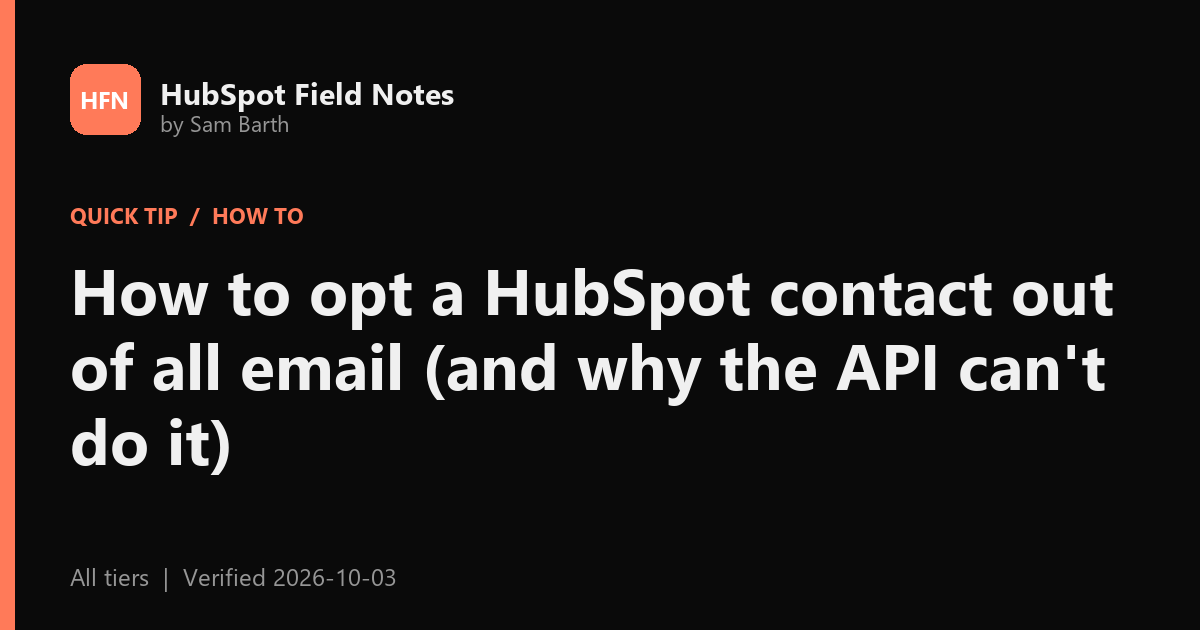
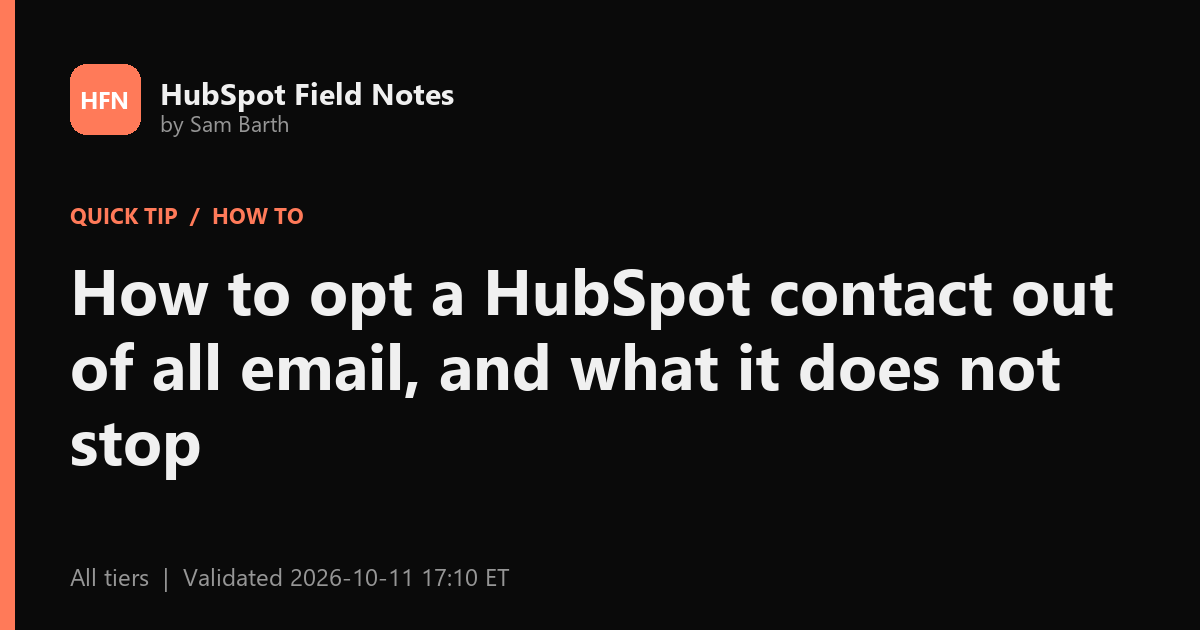
Rewrite bulk-assign-owners-from-sheet and opt-out-contact-all-email from KB, add Validated stamps

Changed region(s): [[0.3392, 0.5429, 0.925, 0.6635], [0.0617, 0.6635, 0.2158, 0.754], [0.1542, 0.9048, 0.4317, 0.9349]]

diff --git a/articles/opt-out-contact-all-email/index.html b/articles/opt-out-contact-all-email/index.html
@@ -13,13 +13,13 @@
 <script>try{var t=localStorage.getItem('hfn-theme');if(t)document.documentElement.setAttribute('data-theme',t)}catch(e){}</script>
 <script id="hs-script-loader" async defer src="https://js.hs-scripts.com/20693956.js"></script>
 <!--/head-->
-<title>How to opt a HubSpot contact out of all email (and why the API can't do it) - HubSpot Field Notes</title>
-<meta name="description" content="Actions, Opt out of email stops future marketing and one-to-one email from HubSpot. Where it lives, what it does not stop, and why scripts and the API cannot set it.">
+<title>How to opt a HubSpot contact out of all email, and what it does not stop - HubSpot Field Notes</title>
+<meta name="description" content="Actions, Opt out of email stops future marketing and one-to-one email from HubSpot. Where it lives, what it does not stop, and how to opt out a group with a spreadsheet.">
 <link rel="canonical" href="https://hubspot.samcbarth.com/articles/opt-out-contact-all-email/">
 <meta property="og:type" content="article">
 <meta property="og:url" content="https://hubspot.samcbarth.com/articles/opt-out-contact-all-email/">
-<meta property="og:title" content="How to opt a HubSpot contact out of all email (and why the API can't do it)">
-<meta property="og:description" content="Actions, Opt out of email stops future marketing and one-to-one email from HubSpot. Where it lives, what it does not stop, and why scripts and the API cannot set it.">
+<meta property="og:title" content="How to opt a HubSpot contact out of all email, and what it does not stop">
+<meta property="og:description" content="Actions, Opt out of email stops future marketing and one-to-one email from HubSpot. Where it lives, what it does not stop, and how to opt out a group with a spreadsheet.">
 <meta property="og:image" content="https://hubspot.samcbarth.com/articles/opt-out-contact-all-email/og.png">
 <meta property="article:published_time" content="2026-10-03">
 <meta property="article:modified_time" content="2026-10-03">
@@ -30,8 +30,8 @@
   "@graph": [
     {
       "@type": "TechArticle",
-      "headline": "How to opt a HubSpot contact out of all email (and why the API can't do it)",
-      "description": "Actions, Opt out of email stops future marketing and one-to-one email from HubSpot. Where it lives, what it does not stop, and why scripts and the API cannot set it.",
+      "headline": "How to opt a HubSpot contact out of all email, and what it does not stop",
+      "description": "Actions, Opt out of email stops future marketing and one-to-one email from HubSpot. Where it lives, what it does not stop, and how to opt out a group with a spreadsheet.",
       "datePublished": "2026-10-03",
       "dateModified": "2026-10-03",
       "author": { "@type": "Person", "name": "Sam Barth", "url": "https://samcbarth.com" },
@@ -56,7 +56,7 @@
       "@type": "BreadcrumbList",
       "itemListElement": [
         { "@type": "ListItem", "position": 1, "name": "HubSpot Field Notes", "item": "https://hubspot.samcbarth.com/" },
-        { "@type": "ListItem", "position": 2, "name": "How to opt a HubSpot contact out of all email (and why the API can't do it)", "item": "https://hubspot.samcbarth.com/articles/opt-out-contact-all-email/" }
+        { "@type": "ListItem", "position": 2, "name": "How to opt a HubSpot contact out of all email, and what it does not stop", "item": "https://hubspot.samcbarth.com/articles/opt-out-contact-all-email/" }
       ]
     }
   ]
@@ -87,13 +87,13 @@
     <nav class="crumbs" aria-label="Breadcrumb"><a href="../../">All articles</a> / <a href="../../?feature=Contacts">Contacts</a></nav>
     <header class="article-head">
       <div class="badges"><span class="badge badge-type">Quick tip</span><span class="badge badge-problem">How to</span><span class="badge">Marketing Hub</span><span class="badge">Sales Hub</span><span class="badge">Smart CRM</span></div>
-      <h1>How to opt a HubSpot contact out of all email (and why the API can't do it)</h1>
+      <h1>How to opt a HubSpot contact out of all email, and what it does not stop</h1>
       <p class="dek">Someone asked to be removed and you need it done properly. There is one button for it, and a few things it does not cover.</p>
       <dl class="facts">
         <div class="fact"><dt>Subscription</dt><dd>All tiers</dd></div>
         <div class="fact"><dt>Permissions</dt><dd>Marketing access permissions</dd></div>
         <div class="fact"><dt>Time</dt><dd>4 min &middot; Beginner</dd></div>
-        <div class="fact"><dt>Last verified</dt><dd><time datetime="2026-10-03">October 3, 2026</time></dd></div>
+        <div class="fact"><dt>Validated</dt><dd><time datetime="2026-10-11T17:10:00-04:00">October 11, 2026, 5:10 PM ET</time></dd></div>
       </dl>
       <div data-portal-box></div>
     </header>
@@ -103,7 +103,7 @@
       <article class="prose">
         <div class="tldr">
           <h2>Short answer</h2>
-          <p>Open the contact, click <span class="ui">Actions</span>, choose <span class="ui">Opt out of email</span>, and confirm. HubSpot then stops future marketing email and one-to-one email to that address. You need marketing access permissions. This is a UI action: the opted-out property is read-only through the API, so a script cannot set it for you.</p>
+          <p>Open the contact, click <span class="ui">Actions</span> in the left sidebar, choose <span class="ui">Opt out of email</span>, and confirm. The contact is then opted out of all future marketing and one-to-one email. Transactional email is still delivered. You need marketing access permissions. For a group of contacts, use an opt-out spreadsheet import.</p>
         </div>
 
         <h2>1. Opt the contact out</h2>
@@ -119,16 +119,19 @@
 
         <h2>3. What opt out does not stop</h2>
         <ul>
-          <li>HubSpot says opting out blocks future marketing and one-to-one email, but transactional email can still be delivered.</li>
-          <li>It does not stop other channels, such as a sales rep phoning them.</li>
-          <li>It does not remove the contact. Their record and history stay.</li>
+          <li>Transactional emails. HubSpot still delivers them.</li>
+          <li>Other channels, such as a phone call or a message from someone on your team.</li>
+          <li>Other brands. If you use the Brands add-on, opting out applies only to the brand you are working in.</li>
+          <li>The contact record. Opting out does not delete the contact or its history.</li>
         </ul>
-        <h2>4. Why a script cannot do it</h2>
-        <p>I tried this through the API for a client contact. The opted-out property is read only there, so the write fails. Setting the contact to non-marketing also failed because the private app lacked the marketable-contacts scope. Both are done in the UI, so I handed over the manual steps instead of forcing it.</p>
+
+        <h2>4. Opt out a group</h2>
+        <p>To opt out a group of contacts, import them with an opt-out spreadsheet. Use the single-contact steps above for one person.</p>
 
         <h2>Sources</h2>
         <ul class="sources">
           <li><a href="https://knowledge.hubspot.com/records/how-do-i-unsubscribe-or-opt-out-contacts-from-email">HubSpot Knowledge Base: How do I unsubscribe or opt out contacts from email?</a></li>
+          <li><a href="https://knowledge.hubspot.com/marketing-email/import-an-opt-out-list">HubSpot Knowledge Base: Import an opt-out list</a></li>
           <li><a href="https://knowledge.hubspot.com/contacts/manage-your-subscription-preferences-and-types">HubSpot Knowledge Base: Manage your subscription preferences and types</a></li>
         </ul>
 

diff --git a/index.html b/index.html
@@ -972,8 +972,8 @@
 <a class="card" href="articles/sql-count-zero/"><div class="badges"><span class="badge badge-type">Guide</span><span class="badge badge-problem">Fix it</span><span class="badge">Sales Hub</span><span class="badge">Marketing Hub</span></div><h3>Your HubSpot report shows zero SQLs? Set lifecycle stage from the deal, not the contact</h3><p>If reps work deals and never touch the contact&#39;s lifecycle stage, SQL reports stay at zero. A workflow can set associated contacts to Sales Qualified Lead when a deal reaches the right stage.</p><div class="card-meta"><span>15 min</span><span>Intermediate</span><span>Validated 2026-10-11 14:45 ET</span></div></a>
 <a class="card" href="articles/troubleshoot-enrollment/"><div class="badges"><span class="badge badge-type">Guide</span><span class="badge badge-problem">Fix it</span><span class="badge">Marketing Hub</span><span class="badge">Sales Hub</span></div><h3>Why didn&#39;t this record enroll? Use HubSpot&#39;s Troubleshoot enrollment tool</h3><p>HubSpot workflows have a built-in tool that tests a specific record against the nine enrollment checks and tells you why it did or did not enroll.</p><div class="card-meta"><span>8 min</span><span>Beginner</span><span>Validated 2026-10-11 14:55 ET</span></div></a>
 <a class="card" href="articles/enrich-records-record-id-import/"><div class="badges"><span class="badge badge-type">Guide</span><span class="badge badge-problem">How to</span><span class="badge">Smart CRM</span><span class="badge">Data Hub</span></div><h3>Enrich HubSpot companies from a spreadsheet when names don&#39;t match: import by Record ID</h3><p>When company names in a spreadsheet match more than one HubSpot company, export Record IDs, match your data to them, and import with Record ID as the identifier.</p><div class="card-meta"><span>25 min</span><span>Intermediate</span><span>Validated 2026-10-11 17:00 ET</span></div></a>
-<a class="card" href="articles/bulk-assign-owners-from-sheet/"><div class="badges"><span class="badge badge-type">Guide</span><span class="badge badge-problem">How to</span><span class="badge">Sales Hub</span><span class="badge">Smart CRM</span></div><h3>Bulk assign HubSpot company owners from a spreadsheet without overwriting anyone</h3><p>Use a customer&#39;s own file of account owners to set Company owner on thousands of HubSpot companies, only where none is set, and handle owners who are not HubSpot users.</p><div class="card-meta"><span>20 min</span><span>Intermediate</span><span>Verified 2026-10-03</span></div></a>
-<a class="card" href="articles/opt-out-contact-all-email/"><div class="badges"><span class="badge badge-type">Quick tip</span><span class="badge badge-problem">How to</span><span class="badge">Marketing Hub</span><span class="badge">Sales Hub</span></div><h3>How to opt a HubSpot contact out of all email (and why the API can&#39;t do it)</h3><p>Actions, Opt out of email stops future marketing and one-to-one email from HubSpot. Where it lives, what it does not stop, and why scripts and the API cannot set it.</p><div class="card-meta"><span>4 min</span><span>Beginner</span><span>Verified 2026-10-03</span></div></a>
+<a class="card" href="articles/bulk-assign-owners-from-sheet/"><div class="badges"><span class="badge badge-type">Guide</span><span class="badge badge-problem">How to</span><span class="badge">Sales Hub</span><span class="badge">Smart CRM</span></div><h3>Bulk assign HubSpot company owners from a spreadsheet without overwriting anyone</h3><p>Use a customer&#39;s own file of account owners to set Company owner on thousands of HubSpot companies, only where none is set, and handle owners who are not HubSpot users.</p><div class="card-meta"><span>20 min</span><span>Intermediate</span><span>Validated 2026-10-11 17:05 ET</span></div></a>
+<a class="card" href="articles/opt-out-contact-all-email/"><div class="badges"><span class="badge badge-type">Quick tip</span><span class="badge badge-problem">How to</span><span class="badge">Marketing Hub</span><span class="badge">Sales Hub</span></div><h3>How to opt a HubSpot contact out of all email, and what it does not stop</h3><p>Actions, Opt out of email stops future marketing and one-to-one email from HubSpot. Where it lives, what it does not stop, and how to opt out a group with a spreadsheet.</p><div class="card-meta"><span>4 min</span><span>Beginner</span><span>Validated 2026-10-11 17:10 ET</span></div></a>
 <a class="card" href="articles/api-scripts-create-duplicates/"><div class="badges"><span class="badge badge-type">Guide</span><span class="badge badge-problem">Developer</span><span class="badge">Smart CRM</span></div><h3>Your script created duplicate HubSpot records? Merge them, don&#39;t delete them</h3><p>Why bulk writes through the HubSpot API create duplicate companies and contacts, how to merge instead of delete to keep associations, and how to write the script so it does not happen again.</p><div class="card-meta"><span>15 min</span><span>Advanced</span><span>Verified 2026-10-03</span></div></a>
 <a class="card" href="articles/template-doesnt-allow-modules/"><div class="badges"><span class="badge badge-type">Guide</span><span class="badge badge-problem">Fix it</span><span class="badge">Content Hub</span></div><h3>&#39;This template doesn&#39;t allow modules to be added&#39; in HubSpot: three causes</h3><p>A blank HubSpot page that will not let you add modules usually has a template problem: an empty drag and drop area, a broken extends path, or overlapping columns.</p><div class="card-meta"><span>15 min</span><span>Advanced</span><span>Verified 2026-10-03</span></div></a>
 <a class="card" href="articles/clone-landing-page-per-location/"><div class="badges"><span class="badge badge-type">Guide</span><span class="badge badge-problem">How to</span><span class="badge">Content Hub</span></div><h3>Clone a HubSpot landing page for each location: what to change every time</h3><p>How to clone one good HubSpot landing page for each community or location, and the four settings plus content to change on every clone.</p><div class="card-meta"><span>10 min</span><span>Beginner</span><span>Verified 2026-10-03</span></div></a>

diff --git a/articles/bulk-assign-owners-from-sheet/index.html b/articles/bulk-assign-owners-from-sheet/index.html
@@ -93,7 +93,7 @@
         <div class="fact"><dt>Subscription</dt><dd>Any tier</dd></div>
         <div class="fact"><dt>Permissions</dt><dd>Import access; bulk edit access to companies</dd></div>
         <div class="fact"><dt>Time</dt><dd>20 min &middot; Intermediate</dd></div>
-        <div class="fact"><dt>Last verified</dt><dd><time datetime="2026-10-03">October 3, 2026</time></dd></div>
+        <div class="fact"><dt>Validated</dt><dd><time datetime="2026-10-11T17:05:00-04:00">October 11, 2026, 5:05 PM ET</time></dd></div>
       </dl>
       <div data-portal-box></div>
     </header>
@@ -103,7 +103,7 @@
       <article class="prose">
         <div class="tldr">
           <h2>Short answer</h2>
-          <p>Filter the Companies list to companies with no owner, match your owner file to them through a unique key such as a customer number, and import the unowned ones with <strong>Record ID</strong> and <strong>Company owner</strong> mapped. Owner values must be existing HubSpot users, so accounts whose salesperson has no seat stay unowned until you add them. For a manufacturing client I set owners on about 1,300 companies this way without changing any that already had one.</p>
+          <p>Filter Companies to those with no owner, match your owner file to them through a key that is unique on both sides, and import with <strong>Record ID</strong> and <strong>Company owner</strong> mapped. Choose <span class="ui">Update existing records only</span>, and select <span class="ui">Don't overwrite</span> on the owner column, so the import fills empty owners and changes nothing else. Check that every owner in the file matches a HubSpot user before you import.</p>
         </div>
 
         <h2>1. See how many companies have no owner</h2>
@@ -111,21 +111,21 @@
         <figure class="shot"><a href="no-owner.webp"><img src="no-owner.webp" alt="Companies list with the Company owner column showing No owner and the total count highlighted" width="800" height="600" loading="lazy"></a><figcaption>The Company owner column and the total count of 4,624.</figcaption></figure>
 
         <h2>2. Match the file to companies</h2>
-        <p>The client's file listed a salesperson on each business partner row. The partner number was stored in a HubSpot property, so I matched on that, not on names. Whatever your key is, it must be unique on both sides. Add the HubSpot Record ID to each matched row.</p>
+        <p>Match on a key that is unique on both sides, such as a customer number stored in a HubSpot property. Add the HubSpot Record ID to each matched row.</p>
         <ul>
-          <li>Drop rows with no salesperson and rows with typos in the owner email.</li>
-          <li>Keep only companies that currently have no owner, so the import never overwrites a human decision.</li>
-          <li>Owners must exist as HubSpot users. In my case four salespeople had no HubSpot seat, which left about 140 companies unowned. Put those names in a text property, or add the users, then run a second pass.</li>
+          <li>Drop rows with no owner and rows where the owner is unclear.</li>
+          <li>Keep only companies that have no owner, so the import never replaces an owner someone already chose.</li>
+          <li>Check each owner against your HubSpot users before you import. A name that does not match a user cannot be assigned as the owner.</li>
         </ul>
 
         <h2>3. Import it</h2>
-        <p>Open <a class="hs-link" data-hs="/import/{portalId}" href="https://app.hubspot.com/l/import"><span class="ui">Data integration</span></a>, choose <span class="ui">Import a file</span>, one file, one object (Companies), and map <span class="ui">Record ID</span> and <span class="ui">Company owner</span>.</p>
+        <p>Open <a class="hs-link" data-hs="/import/{portalId}" href="https://app.hubspot.com/l/import"><span class="ui">Data integration</span></a>, choose <span class="ui">Import a file</span>, and pick one file and one object, Companies. Map <span class="ui">Record ID</span> and <span class="ui">Company owner</span>. In the <span class="ui">Choose how to import</span> dropdown, select <span class="ui">Update existing records only</span>. On the Company owner row, select <span class="ui">Don't overwrite</span>.</p>
         <figure class="shot"><a href="data-integration.webp"><img src="data-integration.webp" alt="Data integration page with the Import a file card highlighted" width="800" height="553" loading="lazy"></a><figcaption>Start from Import a file.</figcaption></figure>
 
         <h2>4. Verify the result</h2>
-        <p>Open the import to see rows, new records and updated records. For an update-only job, new records should be zero. If it is not, the file had rows without a Record ID. The uploader name is blurred below.</p>
-        <figure class="shot"><a href="import-summary.webp"><img src="import-summary.webp" alt="Import summary with rows, new records, updated records, and new associations highlighted" width="800" height="553" loading="lazy"></a><figcaption>An import summary. This sample import created new records, which an update-only job should not.</figcaption></figure>
-        <p>Then re-filter Companies by owner is unknown and compare to your expected leftover count.</p>
+        <p>Open the import from the import history. The summary shows rows, new records, and updated records. With <span class="ui">Update existing records only</span>, new records should be zero. If they are not, the file had rows without a Record ID or the wrong import option was chosen. The blurred line under the date is the uploader.</p>
+        <figure class="shot"><a href="import-summary.webp"><img src="import-summary.webp" alt="Import summary with rows, new records, updated records, and new associations highlighted" width="800" height="553" loading="lazy"></a><figcaption>A sample contacts import summary. It created new records, which an update-only import should not.</figcaption></figure>
+        <p>Then filter Companies by Company owner is unknown again and compare the count with the rows you expected to leave unowned.</p>
 
         <h2>Sources</h2>
         <ul class="sources">

diff --git a/articles.js b/articles.js
@@ -177,14 +177,15 @@ var ARTICLES = [
     permissions: "Import access; bulk edit access to companies",
     verified: "2026-10-03",
     published: "2026-10-03",
+    validated: "2026-10-11 17:05 ET",
     minutes: 20,
     difficulty: "Intermediate",
     keywords: ["company owner", "assign owners", "bulk owner"],
   },
   {
     slug: "opt-out-contact-all-email",
-    title: "How to opt a HubSpot contact out of all email (and why the API can't do it)",
-    excerpt: "Actions, Opt out of email stops future marketing and one-to-one email from HubSpot. Where it lives, what it does not stop, and why scripts and the API cannot set it.",
+    title: "How to opt a HubSpot contact out of all email, and what it does not stop",
+    excerpt: "Actions, Opt out of email stops future marketing and one-to-one email from HubSpot. Where it lives, what it does not stop, and how to opt out a group with a spreadsheet.",
     type: "tip",
     problem: "How to",
     hubs: ["Marketing Hub", "Sales Hub", "Smart CRM"],
@@ -193,6 +194,7 @@ var ARTICLES = [
     permissions: "Marketing access permissions",
     verified: "2026-10-03",
     published: "2026-10-03",
+    validated: "2026-10-11 17:10 ET",
     minutes: 4,
     difficulty: "Beginner",
     keywords: ["unsubscribe", "opt out", "gdpr", "do not email"],
